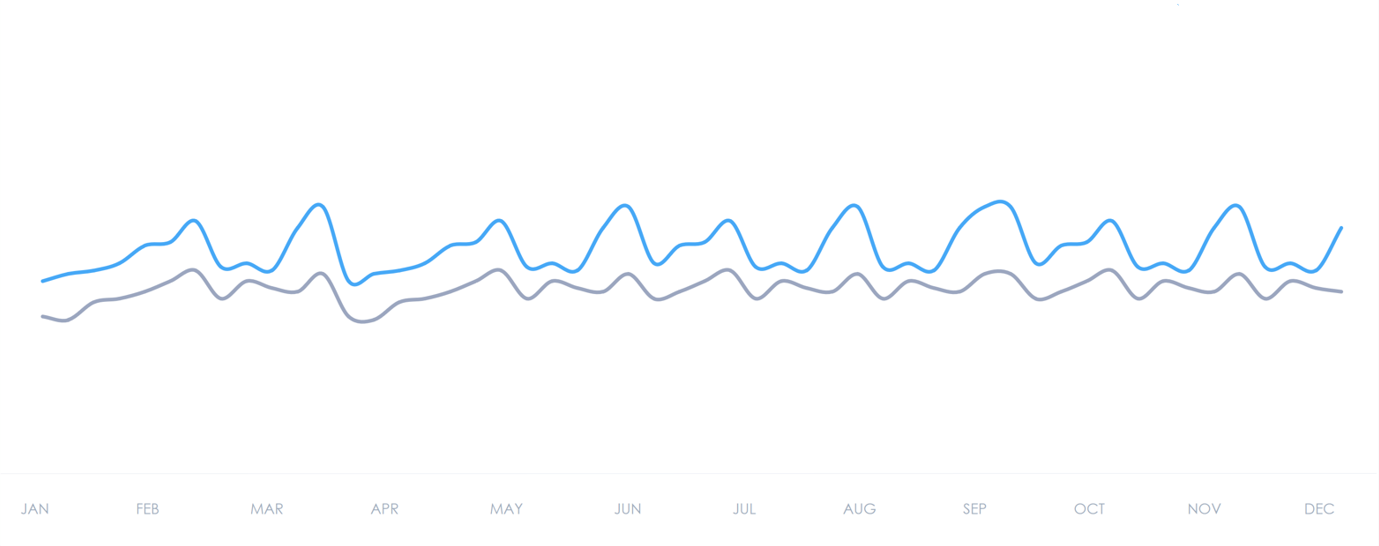
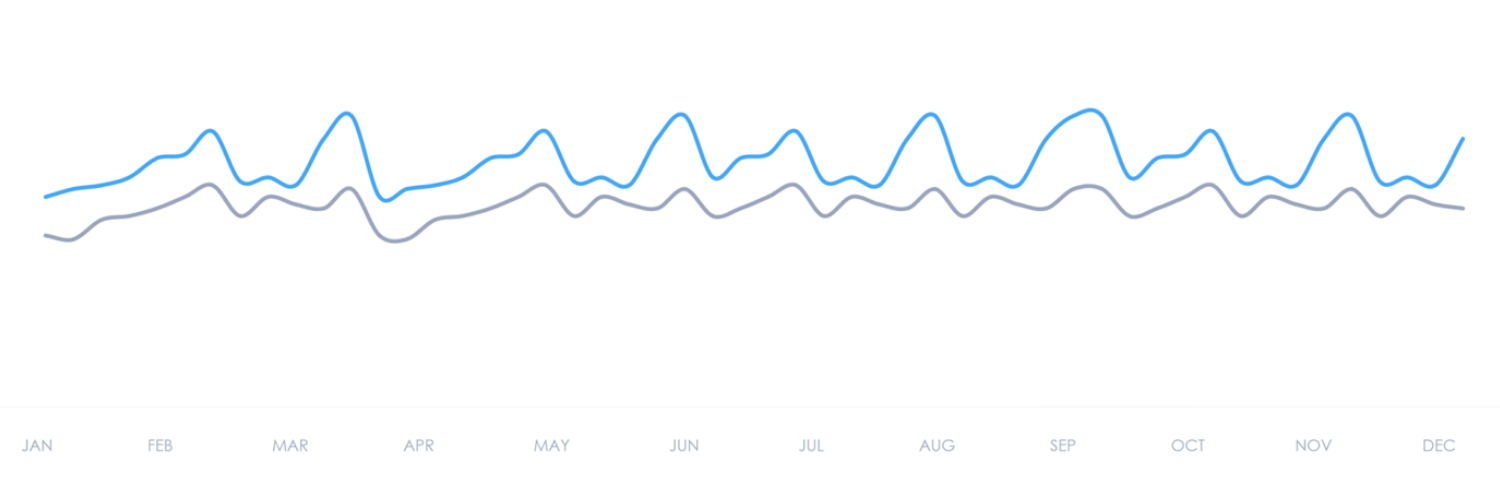
Updated style of graph and table

diff --git a/src/table/table.css b/src/table/table.css
@@ -18,18 +18,19 @@ tr {
 
 th {
    font-weight: 300;
-   font-size: 12px;
+   font-size: 14px;
    border-bottom: 1px solid #f4f6f9;
 }
 
 td {
+   height: 4vh;
    font-weight: 200;
-   font-size: 12px;
+   font-size: 14px;
    color: rgb(151, 151, 151);
    border-bottom: 1px solid #f4f6f9;
 }
 
 tbody tr {
-   height: 5vh;
+   height: 3vh;
    padding: 1vh 2vw;
 }

diff --git a/src/sales/sales.css b/src/sales/sales.css
@@ -71,14 +71,14 @@
 }
 
 .sales-right-graph {
-   flex: 4;
+   flex: 5;
    background-color: white;
    margin: 7vh 1vw 3.5vh 0.6vw;
    box-shadow: 0px 1px 3px rgba(0, 0, 0, 0.2);
 }
 
 .sales-right-table {
-   flex: 3;
+   flex: 4;
    background-color: white;
    margin: 3.5vh 1vw 2vh 0.6vw;
    box-shadow: 0px 1px 3px rgba(0, 0, 0, 0.2);
